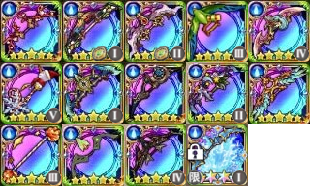
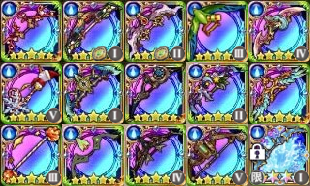
Steampunk

Changed region(s): [[0.5806, 0.6452, 1.0, 1.0]]

diff --git a/docs/list-weapons.md b/docs/list-weapons.md
@@ -103,6 +103,7 @@ EQ | Name | Slot | Auto | Special
 <img src="https://raw.githubusercontent.com/caelumff/bdfeguides/master/icons/KNG2-11.jpg" width="60" alt="Sword"> | <a href="list-names.md#-sports-2018">Megaphone</a> | 3 |  -  | Heal<br>Dueling 2<br>Allies Regen 1<br>
 <img src="https://raw.githubusercontent.com/caelumff/bdfeguides/master/icons/KNG2-12.jpg" width="60" alt="Sword"> | <a href="list-names.md#-sergeant-keroro">Space Army</a> | 0 |  -  | HP Up<br>
 <img src="https://raw.githubusercontent.com/caelumff/bdfeguides/master/icons/KNG2-13.jpg" width="60" alt="Sword"> | <a href="list-names.md#-bravely-default-praying-brage">Ruin</a> | 4 |  -  | Fire AoE Taunt<br><img src="https://caelum.s-ul.eu/7tZLFGPP.png" width="25" alt="Slot Effect"> Debuff Extend<br>
+<img src="https://raw.githubusercontent.com/caelumff/bdfeguides/master/icons/KNG2-14.jpg" width="60" alt="Sword"> | <a href="list-names.md#-steampunk">Antique</a> | 5 | Row Buff<br> | Mono Phalanx 3<br><img src="https://caelum.s-ul.eu/7tZLFGPP.png" width="25" alt="Slot Effect"> Testudo 1<br>
 <img src="https://raw.githubusercontent.com/caelumff/bdfeguides/master/icons/Valkyrie1.jpg" width="60" alt="Sword"> | **[LIMITED]** <a href="list-names.md#-valkyrie-profile">Valkyrie</a> | 1 |  -  | Phalanx 1<br>Allies Aggro<br>
 
 ## <img src="https://caelum.s-ul.eu/hLKNs6KH.png" width="25" alt="Earth"> Earth Swords
@@ -110,7 +111,7 @@ EQ | Name | Slot | Auto | Special
 EQ | Name | Slot | Auto | Special
 :-:|---|:-:|---|---
 <img src="https://raw.githubusercontent.com/caelumff/bdfeguides/master/icons/KNG3-1.jpg" width="60" alt="Sword"> | <a href="list-names.md#-old-earth">Cosmokaiser</a> | 0 |  -  | Water Aggro<br>
-<img src="https://raw.githubusercontent.com/caelumff/bdfeguides/master/icons/KNG3-2.jpg" width="60" alt="Sword"> | <a href="list-names.md#-steampunk">Steampunk</a> | 1 |  -  | 
+<img src="https://raw.githubusercontent.com/caelumff/bdfeguides/master/icons/KNG3-2.jpg" width="60" alt="Sword"> | <a href="list-names.md#-mechanical-soldier">Mechanical</a> | 1 |  -  | 
 <img src="https://raw.githubusercontent.com/caelumff/bdfeguides/master/icons/KNG3-3.jpg" width="60" alt="Sword"> | <a href="list-names.md#-spiritual">Spiritual</a> | 2 |  -  | Allies HP Up<br>
 <img src="https://raw.githubusercontent.com/caelumff/bdfeguides/master/icons/KNG3-4.jpg" width="60" alt="Sword"> | <a href="list-names.md#-euclid">Euclid</a> | 3 | Buff<br> | Aggro<br>
 <img src="https://raw.githubusercontent.com/caelumff/bdfeguides/master/icons/KNG3-5.jpg" width="60" alt="Sword"> | <a href="list-names.md#-bull">Bull</a> | 4 |  -  | Water Taunt<br>
@@ -180,6 +181,7 @@ EQ | Name | Slot | Auto | Special
 <img src="https://raw.githubusercontent.com/caelumff/bdfeguides/master/icons/BLM2-11.jpg" width="60" alt="Rod"> | <a href="list-names.md#-sports-2018">Flag</a> | 3 |  -  | Aspir 2<br>Limit Break 2<br>
 <img src="https://raw.githubusercontent.com/caelumff/bdfeguides/master/icons/BLM2-12.jpg" width="60" alt="Rod"> | <a href="list-names.md#-sergeant-keroro">Space Army</a> | 0 |  -  | HP Absorb<br>
 <img src="https://raw.githubusercontent.com/caelumff/bdfeguides/master/icons/BLM2-13.jpg" width="60" alt="Rod"> | <a href="list-names.md#-bravely-default-praying-brage">Ruin</a> | 4 | AoE<br> | Limit Break 3<br>
+<img src="https://raw.githubusercontent.com/caelumff/bdfeguides/master/icons/BLM2-14.jpg" width="60" alt="Rod"> | <a href="list-names.md#-steampunk">Antique</a> | 5 |  -  | Empower 2<br><img src="https://caelum.s-ul.eu/7tZLFGPP.png" width="25" alt="Slot Effect"> Limit Break 1<br>
 <img src="https://raw.githubusercontent.com/caelumff/bdfeguides/master/icons/Valkyrie2.jpg" width="60" alt="Rod"> | **[LIMITED]** <a href="list-names.md#-valkyrie-profile">Valkyrie</a> | 1 | AoE<br> | Rapid DPS<br>
 
 ## <img src="https://caelum.s-ul.eu/hLKNs6KH.png" width="25" alt="Earth"> Earth Rods
@@ -187,7 +189,7 @@ EQ | Name | Slot | Auto | Special
 EQ | Name | Slot | Auto | Special
 :-:|---|:-:|---|---
 <img src="https://raw.githubusercontent.com/caelumff/bdfeguides/master/icons/BLM3-1.jpg" width="60" alt="Rod"> | <a href="list-names.md#-old-earth">Heaven Demon</a> | 0 |  -  | Water BP Absorb<br>
-<img src="https://raw.githubusercontent.com/caelumff/bdfeguides/master/icons/BLM3-2.jpg" width="60" alt="Rod"> | <a href="list-names.md#-steampunk">Steampunk</a> | 1 |  -  | 
+<img src="https://raw.githubusercontent.com/caelumff/bdfeguides/master/icons/BLM3-2.jpg" width="60" alt="Rod"> | <a href="list-names.md#-mechanical-soldier">Mechanical</a> | 1 |  -  | 
 <img src="https://raw.githubusercontent.com/caelumff/bdfeguides/master/icons/BLM3-3.jpg" width="60" alt="Rod"> | <a href="list-names.md#-spiritual">Spiritual</a> | 2 |  -  | HP Absorb<br><img src="https://caelum.s-ul.eu/1IPYTuvl.JPG" width="25" alt="Legend Coin"> MA Up<br>
 <img src="https://raw.githubusercontent.com/caelumff/bdfeguides/master/icons/BLM3-4.jpg" width="60" alt="Rod"> | <a href="list-names.md#-euclid">Euclid</a> | 3 | Buff<br> | Split<br>Concentrate 2<br>
 <img src="https://raw.githubusercontent.com/caelumff/bdfeguides/master/icons/BLM3-5.jpg" width="60" alt="Rod"> | <a href="list-names.md#-bull">Bull</a> | 4 | Buff<br> | Rapid DPS<br>
@@ -257,6 +259,7 @@ EQ | Name | Slot | Auto | Special
 <img src="https://raw.githubusercontent.com/caelumff/bdfeguides/master/icons/WHM2-11.jpg" width="60" alt="Book"> | <a href="list-names.md#-sports-2018">Bento</a> | 3 | Buff<br> | 2 Row Heal<br>Brave 1<br>Default 1<br><img src="https://caelum.s-ul.eu/7tZLFGPP.png" width="25" alt="Slot Effect"> BP Recovery<br>
 <img src="https://raw.githubusercontent.com/caelumff/bdfeguides/master/icons/WHM2-12.jpg" width="60" alt="Book"> | <a href="list-names.md#-sergeant-keroro">Space Army</a> | 0 |  -  | Heal<br>Mono Default 3<br>
 <img src="https://raw.githubusercontent.com/caelumff/bdfeguides/master/icons/WHM2-13.jpg" width="60" alt="Book"> | <a href="list-names.md#-bravely-default-praying-brage">Ruin</a> | 4 | AoE<br>Attack<br> | AoE Attack<br>Mono Brave/Default 1<br><img src="https://caelum.s-ul.eu/7tZLFGPP.png" width="25" alt="Slot Effect"> BP Recovery<br>
+<img src="https://raw.githubusercontent.com/caelumff/bdfeguides/master/icons/WHM2-14.jpg" width="60" alt="Book"> | <a href="list-names.md#-steampunk">Antique</a> | 5 |  -  | 2 Row Heal<br>Mono Brave 3<br><img src="https://caelum.s-ul.eu/7tZLFGPP.png" width="25" alt="Slot Effect"> Mind 1<br>
 <img src="https://raw.githubusercontent.com/caelumff/bdfeguides/master/icons/Valkyrie3.jpg" width="60" alt="Book"> | **[LIMITED]** <a href="list-names.md#-valkyrie-profile">Valkyrie</a> | 1 |  -  | Heal<br>Revive<br>Heal Area<br>
 
 ## <img src="https://caelum.s-ul.eu/hLKNs6KH.png" width="25" alt="Earth"> Earth Books
@@ -264,7 +267,7 @@ EQ | Name | Slot | Auto | Special
 EQ | Name | Slot | Auto | Special
 :-:|---|:-:|---|---
 <img src="https://raw.githubusercontent.com/caelumff/bdfeguides/master/icons/WHM3-1.jpg" width="60" alt="Book"> | <a href="list-names.md#-old-earth">Dark Moon</a> | 0 | Buff<br> | Default 2<br>
-<img src="https://raw.githubusercontent.com/caelumff/bdfeguides/master/icons/WHM3-2.jpg" width="60" alt="Book"> | <a href="list-names.md#-steampunk">Steampunk</a> | 1 | Attack<br> | Attack<br>
+<img src="https://raw.githubusercontent.com/caelumff/bdfeguides/master/icons/WHM3-2.jpg" width="60" alt="Book"> | <a href="list-names.md#-mechanical-soldier">Mechanical</a> | 1 | Attack<br> | Attack<br>
 <img src="https://raw.githubusercontent.com/caelumff/bdfeguides/master/icons/WHM3-3.jpg" width="60" alt="Book"> | <a href="list-names.md#-spiritual">Spiritual</a> | 2 |  -  | <img src="https://caelum.s-ul.eu/1IPYTuvl.JPG" width="25" alt="Legend Coin"> Mind 1<br>
 <img src="https://raw.githubusercontent.com/caelumff/bdfeguides/master/icons/WHM3-4.jpg" width="60" alt="Book"> | <a href="list-names.md#-euclid">Euclid</a> | 3 |  -  | 2 Row Heal<br>Revive<br>
 <img src="https://raw.githubusercontent.com/caelumff/bdfeguides/master/icons/WHM3-5.jpg" width="60" alt="Book"> | <a href="list-names.md#-bull">Bull</a> | 4 |  -  | Heal<br>BP Recovery<br>
@@ -334,6 +337,7 @@ EQ | Name | Slot | Auto | Special
 <img src="https://raw.githubusercontent.com/caelumff/bdfeguides/master/icons/THF2-11.jpg" width="60" alt="Dagger"> | <a href="list-names.md#-sports-2018">Pompom</a> | 3 | Fast<br> | HP Absorb<br>
 <img src="https://raw.githubusercontent.com/caelumff/bdfeguides/master/icons/THF2-12.jpg" width="60" alt="Dagger"> | <a href="list-names.md#-sergeant-keroro">Space Army</a> | 0 |  -  | AoE<br>Focus 2<br>
 <img src="https://raw.githubusercontent.com/caelumff/bdfeguides/master/icons/THF2-13.jpg" width="60" alt="Dagger"> | <a href="list-names.md#-bravely-default-praying-brage">Ruin</a> | 4 | 3 Hit<br>AWK Boost<br> | Row<br>Shadow 1<br>Assault 1<br><img src="https://caelum.s-ul.eu/7tZLFGPP.png" width="25" alt="Slot Effect"> Row Quick 1<br>
+<img src="https://raw.githubusercontent.com/caelumff/bdfeguides/master/icons/THF2-14.jpg" width="60" alt="Dagger"> | <a href="list-names.md#-steampunk">Antique</a> | 5 |  -  | Row<br>Assault 3<br><img src="https://caelum.s-ul.eu/7tZLFGPP.png" width="25" alt="Slot Effect"> Shadow 1<br>
 <img src="https://raw.githubusercontent.com/caelumff/bdfeguides/master/icons/Valkyrie4.jpg" width="60" alt="Dagger"> | **[LIMITED]** <a href="list-names.md#-valkyrie-profile">Valkyrie</a> | 1 |  -  | Nuke<br>Quick 1<br>
 
 ## <img src="https://caelum.s-ul.eu/hLKNs6KH.png" width="25" alt="Earth"> Earth Daggers
@@ -341,7 +345,7 @@ EQ | Name | Slot | Auto | Special
 EQ | Name | Slot | Auto | Special
 :-:|---|:-:|---|---
 <img src="https://raw.githubusercontent.com/caelumff/bdfeguides/master/icons/THF3-1.jpg" width="60" alt="Dagger"> | <a href="list-names.md#-old-earth">Blue Sky</a> | 0 | Fast<br> | 
-<img src="https://raw.githubusercontent.com/caelumff/bdfeguides/master/icons/THF3-2.jpg" width="60" alt="Dagger"> | <a href="list-names.md#-steampunk">Steampunk</a> | 1 | 3 Hit<br> | 5 Hit<br>
+<img src="https://raw.githubusercontent.com/caelumff/bdfeguides/master/icons/THF3-2.jpg" width="60" alt="Dagger"> | <a href="list-names.md#-mechanical-soldier">Mechanical</a> | 1 | 3 Hit<br> | 5 Hit<br>
 <img src="https://raw.githubusercontent.com/caelumff/bdfeguides/master/icons/THF3-3.jpg" width="60" alt="Dagger"> | <a href="list-names.md#-spiritual">Spiritual</a> | 2 | Fast 2 Hit<br>Aim 100%<br> | HP Absorb<br><img src="https://caelum.s-ul.eu/1IPYTuvl.JPG" width="25" alt="Legend Coin"> PA Up<br>
 <img src="https://raw.githubusercontent.com/caelumff/bdfeguides/master/icons/THF3-4.jpg" width="60" alt="Dagger"> | <a href="list-names.md#-euclid">Euclid</a> | 3 |  -  | Quick 2<br>
 <img src="https://raw.githubusercontent.com/caelumff/bdfeguides/master/icons/THF3-5.jpg" width="60" alt="Dagger"> | <a href="list-names.md#-bull">Bull</a> | 4 | 3 Hit<br> | AoE<br><img src="https://caelum.s-ul.eu/7tZLFGPP.png" width="25" alt="Slot Effect"> Party Quick 1<br>
@@ -411,6 +415,7 @@ EQ | Name | Slot | Auto | Special
 <img src="https://raw.githubusercontent.com/caelumff/bdfeguides/master/icons/RNG2-11.jpg" width="60" alt="Bow"> | <a href="list-names.md#-sports-2018">Baton</a> | 3 |  -  | Dodge 2<br>
 <img src="https://raw.githubusercontent.com/caelumff/bdfeguides/master/icons/RNG2-12.jpg" width="60" alt="Bow"> | <a href="list-names.md#-sergeant-keroro">Space Army</a> | 0 |  -  | AoE<br>PA/PD/MA/MD Down<br>
 <img src="https://raw.githubusercontent.com/caelumff/bdfeguides/master/icons/RNG2-13.jpg" width="60" alt="Bow"> | <a href="list-names.md#-bravely-default-praying-brage">Ruin</a> | 4 |  -  | Water Chaser 2<br><img src="https://caelum.s-ul.eu/7tZLFGPP.png" width="25" alt="Slot Effect"> Debuff Extend<br>
+<img src="https://raw.githubusercontent.com/caelumff/bdfeguides/master/icons/RNG2-14.jpg" width="60" alt="Bow"> | <a href="list-names.md#-steampunk">Antique</a> | 5 |  -  | Bleed2<br>Poison to Damage<br><img src="https://caelum.s-ul.eu/7tZLFGPP.png" width="25" alt="Slot Effect"> Hawkeye 1<br>
 <img src="https://raw.githubusercontent.com/caelumff/bdfeguides/master/icons/Valkyrie5.jpg" width="60" alt="Bow"> | **[LIMITED]** <a href="list-names.md#-valkyrie-profile">Valkyrie</a> | 1 |  -  | Slowcast 1<br>Poison Up 1<br>
 
 ## <img src="https://caelum.s-ul.eu/hLKNs6KH.png" width="25" alt="Earth"> Earth Bows
@@ -418,7 +423,7 @@ EQ | Name | Slot | Auto | Special
 EQ | Name | Slot | Auto | Special
 :-:|---|:-:|---|---
 <img src="https://raw.githubusercontent.com/caelumff/bdfeguides/master/icons/RNG3-1.jpg" width="60" alt="Bow"> | <a href="list-names.md#-old-earth">Gainatec</a> | 0 |  -  | Water Poison<br>
-<img src="https://raw.githubusercontent.com/caelumff/bdfeguides/master/icons/RNG3-2.jpg" width="60" alt="Bow"> | <a href="list-names.md#-steampunk">Steampunk</a> | 1 |  -  | 
+<img src="https://raw.githubusercontent.com/caelumff/bdfeguides/master/icons/RNG3-2.jpg" width="60" alt="Bow"> | <a href="list-names.md#-mechanical-soldier">Mechanical</a> | 1 |  -  | 
 <img src="https://raw.githubusercontent.com/caelumff/bdfeguides/master/icons/RNG3-3.jpg" width="60" alt="Bow"> | <a href="list-names.md#-spiritual">Spiritual</a> | 2 |  -  | Debuff Extend<br>
 <img src="https://raw.githubusercontent.com/caelumff/bdfeguides/master/icons/RNG3-4.jpg" width="60" alt="Bow"> | <a href="list-names.md#-euclid">Euclid</a> | 3 | Buff<br> | Forceless 2<br>
 <img src="https://raw.githubusercontent.com/caelumff/bdfeguides/master/icons/RNG3-5.jpg" width="60" alt="Bow"> | <a href="list-names.md#-bull">Bull</a> | 4 | AoE<br> | Slowcast 2<br>Debuff Extend<br>

diff --git a/docs/list-weapons-jp.md b/docs/list-weapons-jp.md
@@ -46,6 +46,7 @@
 <img src="https://raw.githubusercontent.com/caelumff/bdfeguides/master/icons/KNG2-11.jpg" width="60" alt="大剣"> | 伝説のWメガホン | III | - | 回復<br>デュエリング II<br>自分以外リジェネ I<br>
 <img src="https://raw.githubusercontent.com/caelumff/bdfeguides/master/icons/KNG2-12.jpg" width="60" alt="大剣"> | スペースミリタリーサーベル | 無 | - | HPアップ<br>
 <img src="https://raw.githubusercontent.com/caelumff/bdfeguides/master/icons/KNG2-13.jpg" width="60" alt="大剣"> | ルインソード | IV | - | 対火全体挑発<br><img src="https://caelum.s-ul.eu/7tZLFGPP.png" width="25" alt="枠適正"> デバフ延長<br>
+<img src="https://raw.githubusercontent.com/caelumff/bdfeguides/master/icons/KNG2-14.jpg" width="60" alt="大剣"> | 古ノ退剣 | V | 列バフ<br> | 染めファランクス III<br><img src="https://caelum.s-ul.eu/7tZLFGPP.png" width="25" alt="枠適正"> テストゥド I<br>
 <img src="https://raw.githubusercontent.com/caelumff/bdfeguides/master/icons/Valkyrie1.jpg" width="60" alt="大剣"> | **[期間限定]** 魔剣ダインスレイヴ | I | - | ファランクス I<br>自分以外敵視<br>
 
 ## <img src="https://caelum.s-ul.eu/hLKNs6KH.png" width="25" alt="土"> 土大剣
@@ -123,6 +124,7 @@
 <img src="https://raw.githubusercontent.com/caelumff/bdfeguides/master/icons/BLM2-11.jpg" width="60" alt="ロッド"> | 伝説の1等賞フラッグ | III | - | アスピル II<br>リミブレ II<br>
 <img src="https://raw.githubusercontent.com/caelumff/bdfeguides/master/icons/BLM2-12.jpg" width="60" alt="ロッド"> | スペースミリタリーロッド | 無 | - | HP吸収<br>
 <img src="https://raw.githubusercontent.com/caelumff/bdfeguides/master/icons/BLM2-13.jpg" width="60" alt="ロッド"> | ルインロッド | IV | 全体<br> | リミブレ III<br>
+<img src="https://raw.githubusercontent.com/caelumff/bdfeguides/master/icons/BLM2-14.jpg" width="60" alt="ロッド"> | 古ノ核 | V | - | エンパワー II<br><img src="https://caelum.s-ul.eu/7tZLFGPP.png" width="25" alt="枠適正"> リミブレ I<br>
 <img src="https://raw.githubusercontent.com/caelumff/bdfeguides/master/icons/Valkyrie2.jpg" width="60" alt="ロッド"> | **[期間限定]** 聖杖ミリオンテラー | I | 全体<br> | 1秒キャスト<br>
 
 ## <img src="https://caelum.s-ul.eu/hLKNs6KH.png" width="25" alt="土"> 土ロッド
@@ -200,6 +202,7 @@
 <img src="https://raw.githubusercontent.com/caelumff/bdfeguides/master/icons/WHM2-11.jpg" width="60" alt="ブック"> | 伝説の真心弁当 | III | バフ<br> | 二列回復<br>ブレイブ I<br>デフォルト I<br><img src="https://caelum.s-ul.eu/7tZLFGPP.png" width="25" alt="枠適正"> BP回復<br>
 <img src="https://raw.githubusercontent.com/caelumff/bdfeguides/master/icons/WHM2-12.jpg" width="60" alt="ブック"> | スペースデッドストック | 無 | - | 回復<br>染めデフォルト III<br>
 <img src="https://raw.githubusercontent.com/caelumff/bdfeguides/master/icons/WHM2-13.jpg" width="60" alt="ブック"> | ルインブック | IV | 全体<br>攻撃<br> | 全体攻撃<br>染めブレイブデフォルト I<br><img src="https://caelum.s-ul.eu/7tZLFGPP.png" width="25" alt="枠適正"> BP回復<br>
+<img src="https://raw.githubusercontent.com/caelumff/bdfeguides/master/icons/WHM2-14.jpg" width="60" alt="ブック"> | イニシエの設計図 | V | - | 二列回復<br>染めブレイブ III<br><img src="https://caelum.s-ul.eu/7tZLFGPP.png" width="25" alt="枠適正"> マインド I<br>
 <img src="https://raw.githubusercontent.com/caelumff/bdfeguides/master/icons/Valkyrie3.jpg" width="60" alt="ブック"> | **[期間限定]** 禁呪の書 | I | - | 回復<br>蘇生<br>ヒールエリア<br>
 
 ## <img src="https://caelum.s-ul.eu/hLKNs6KH.png" width="25" alt="土"> 土ブック
@@ -277,6 +280,7 @@
 <img src="https://raw.githubusercontent.com/caelumff/bdfeguides/master/icons/THF2-11.jpg" width="60" alt="双剣"> | 伝説のポンポン | III | 速い<br> | HP吸収<br>
 <img src="https://raw.githubusercontent.com/caelumff/bdfeguides/master/icons/THF2-12.jpg" width="60" alt="双剣"> | スペースミリタリーカッター | 無 | - | 全体<br>フォーカス II<br>
 <img src="https://raw.githubusercontent.com/caelumff/bdfeguides/master/icons/THF2-13.jpg" width="60" alt="双剣"> | ルインブレイド | IV | 三段<br>覚醒威力<br> | 列<br>シャドウ I<br>アサルト I<br><img src="https://caelum.s-ul.eu/7tZLFGPP.png" width="25" alt="枠適正"> 列クイック I<br>
+<img src="https://raw.githubusercontent.com/caelumff/bdfeguides/master/icons/THF2-14.jpg" width="60" alt="双剣"> | 古ノ騒剣 | V | - | 列<br>アサルト III<br><img src="https://caelum.s-ul.eu/7tZLFGPP.png" width="25" alt="枠適正"> シャドウ I<br>
 <img src="https://raw.githubusercontent.com/caelumff/bdfeguides/master/icons/Valkyrie4.jpg" width="60" alt="双剣"> | **[期間限定]** 白麗の双剣 | I | - | 防御無視<br>クイック I<br>
 
 ## <img src="https://caelum.s-ul.eu/hLKNs6KH.png" width="25" alt="土"> 土双剣
@@ -354,6 +358,7 @@
 <img src="https://raw.githubusercontent.com/caelumff/bdfeguides/master/icons/RNG2-11.jpg" width="60" alt="弓"> | 伝説のチアバトン | III | - | みかわし II<br>
 <img src="https://raw.githubusercontent.com/caelumff/bdfeguides/master/icons/RNG2-12.jpg" width="60" alt="弓"> | スペースミリタリーショット | 無 | - | 全体<br>物攻物防魔攻魔防ダウン<br>
 <img src="https://raw.githubusercontent.com/caelumff/bdfeguides/master/icons/RNG2-13.jpg" width="60" alt="弓"> | ルインボウ | IV | - | 水チェイサー II<br><img src="https://caelum.s-ul.eu/7tZLFGPP.png" width="25" alt="枠適正"> デバフ延長<br>
+<img src="https://raw.githubusercontent.com/caelumff/bdfeguides/master/icons/RNG2-14.jpg" width="60" alt="弓"> | 古ノ歯轟弓 | V | - | Bleed2<br>Poison to Damage<br><img src="https://caelum.s-ul.eu/7tZLFGPP.png" width="25" alt="枠適正"> ホークアイ I<br>
 <img src="https://raw.githubusercontent.com/caelumff/bdfeguides/master/icons/Valkyrie5.jpg" width="60" alt="弓"> | **[期間限定]** 神弓シルヴァンボウ | I | - | スロウキャスト I<br>ポイズンアップ I<br>
 
 ## <img src="https://caelum.s-ul.eu/hLKNs6KH.png" width="25" alt="土"> 土弓

diff --git a/docs/list-names.md b/docs/list-names.md
@@ -33,7 +33,7 @@
 <img src="https://caelum.s-ul.eu/2p740des.png" width="25" alt="Fire"> [Fire Weapons](#fire-weapons) | <img src="https://caelum.s-ul.eu/Ei5MWQfu.png" width="25" alt="Water"> [Water Weapons](#water-weapons) | <img src="https://caelum.s-ul.eu/hLKNs6KH.png" width="25" alt="Earth"> [Earth Weapons](#earth-weapons) | <img src="https://caelum.s-ul.eu/d7KNBOoa.png" width="25" alt="Wind"> [Wind Weapons](#wind-weapons)
 ---|---|---|---
 [Old Fire](#-old-fire) | [Old Water](#-old-water) | [Old Earth](#-old-earth) | [Old Wind](#-old-wind)
-[Holy Dragon](#-holy-dragon) | [Old Water](#-old-water) | [Steampunk](#-steampunk) | [Condemnation](#-condemnation)
+[Holy Dragon](#-holy-dragon) | [Old Water](#-old-water) | [Mechanical Soldier](#-mechanical-soldier) | [Condemnation](#-condemnation)
 [Dark Angel](#-dark-angel) | [Evil Eye](#-evil-eye) | [Spiritual](#-spiritual) | [Quartz](#-quartz)
 [Chain](#-chain) | [Summer 2017](#-summer-2017) | [Euclid](#-euclid) | [Bone](#-bone)
 [Halloween 2017](#-halloween-2017) | [Animal](#-animal) | [Bull](#-bull) | [Twilight](#-twilight)
@@ -45,8 +45,8 @@
 [Japan Folklore](#-japan-folklore) | [Sports 2018](#-sports-2018) | [Halloween 2018](#-halloween-2018) | [Grimms Notes Repage](#-grimms-notes-repage)
 [Lotus](#-lotus) | [Sergeant Keroro](#-sergeant-keroro) | [Christmas 2018](#-christmas-2018) | [Valentine's 2019](#-valentines-2019)
 [Retro Modern](#-retro-modern) | [Bravely Default Praying Brage](#-bravely-default-praying-brage) | [Danmachi](#-danmachi) | [Final Fantasy Brave Exvius](#-final-fantasy-brave-exvius)
-[Rose](#-rose) | [Valkyrie Profile](#-valkyrie-profile) | \- | [2nd Anniversary](#-2nd-anniversary)
-[1st Anniversary](#-1st-anniversary) | \- | \- | \-
+[Rose](#-rose) | [Steampunk](#-steampunk) | \- | [2nd Anniversary](#-2nd-anniversary)
+[1st Anniversary](#-1st-anniversary) | [Valkyrie Profile](#-valkyrie-profile) | \- | \-
 
 # Fire Weapons
 ## <img src="https://caelum.s-ul.eu/2p740des.png" width="25" alt="Fire"> Old Fire
@@ -359,6 +359,17 @@ EQ | Names
 <img src="https://raw.githubusercontent.com/caelumff/bdfeguides/master/icons/THF2-13.jpg" width="60" alt="Dagger"> | <a href="list-weapons.md#-water-daggers">ルインブレイド</a><br>Ruin Blade
 <img src="https://raw.githubusercontent.com/caelumff/bdfeguides/master/icons/RNG2-13.jpg" width="60" alt="Bow"> | <a href="list-weapons.md#-water-bows">ルインボウ</a><br>Ruin Bow
 
+## <img src="https://caelum.s-ul.eu/Ei5MWQfu.png" width="25" alt="Water"> Steampunk
+**Slot: 5**
+
+EQ | Names
+:-:|---
+<img src="https://raw.githubusercontent.com/caelumff/bdfeguides/master/icons/KNG2-14.jpg" width="60" alt="Sword"> | <a href="list-weapons.md#-water-swords">古ノ退剣</a><br>Antique Sword
+<img src="https://raw.githubusercontent.com/caelumff/bdfeguides/master/icons/BLM2-14.jpg" width="60" alt="Rod"> | <a href="list-weapons.md#-water-rods">古ノ核</a><br>Antique Core
+<img src="https://raw.githubusercontent.com/caelumff/bdfeguides/master/icons/WHM2-14.jpg" width="60" alt="Book"> | <a href="list-weapons.md#-water-books">イニシエの設計図</a><br>Antique Design Chart
+<img src="https://raw.githubusercontent.com/caelumff/bdfeguides/master/icons/THF2-14.jpg" width="60" alt="Dagger"> | <a href="list-weapons.md#-water-daggers">古ノ騒剣</a><br>Antique Dagger
+<img src="https://raw.githubusercontent.com/caelumff/bdfeguides/master/icons/RNG2-14.jpg" width="60" alt="Bow"> | <a href="list-weapons.md#-water-bows">古ノ歯轟弓</a><br>Antique Gear Bow
+
 ## <img src="https://caelum.s-ul.eu/Ei5MWQfu.png" width="25" alt="Water"> Valkyrie Profile
 **[LIMITED]**<br>**Slot: 1**
 
@@ -383,8 +394,8 @@ EQ | Names
 <img src="https://raw.githubusercontent.com/caelumff/bdfeguides/master/icons/THF3-1.jpg" width="60" alt="Dagger"> | <a href="list-weapons.md#-earth-daggers">蒼天の剣</a><br>Blue Sky Sword
 <img src="https://raw.githubusercontent.com/caelumff/bdfeguides/master/icons/RNG3-1.jpg" width="60" alt="Bow"> | <a href="list-weapons.md#-earth-bows">ガイナテックボウ</a><br>Gainatec Bow
 
-## <img src="https://caelum.s-ul.eu/hLKNs6KH.png" width="25" alt="Earth"> Steampunk
-**Slot: 1**<br>Weapons from launch<br>Weapon Names: "Mechanical Soldier" *random katakana of unknown origins*<br>Named Steampunk for the iconic steam animation
+## <img src="https://caelum.s-ul.eu/hLKNs6KH.png" width="25" alt="Earth"> Mechanical Soldier
+**Slot: 1**<br>Weapons from launch<br>Weapon Names: "Mechanical Soldier" *random katakana of unknown origins*<br>Used to be named Steampunk for the iconic steam animation until the actual Steampunk box was released.
 
 EQ | Names
 :-:|---
